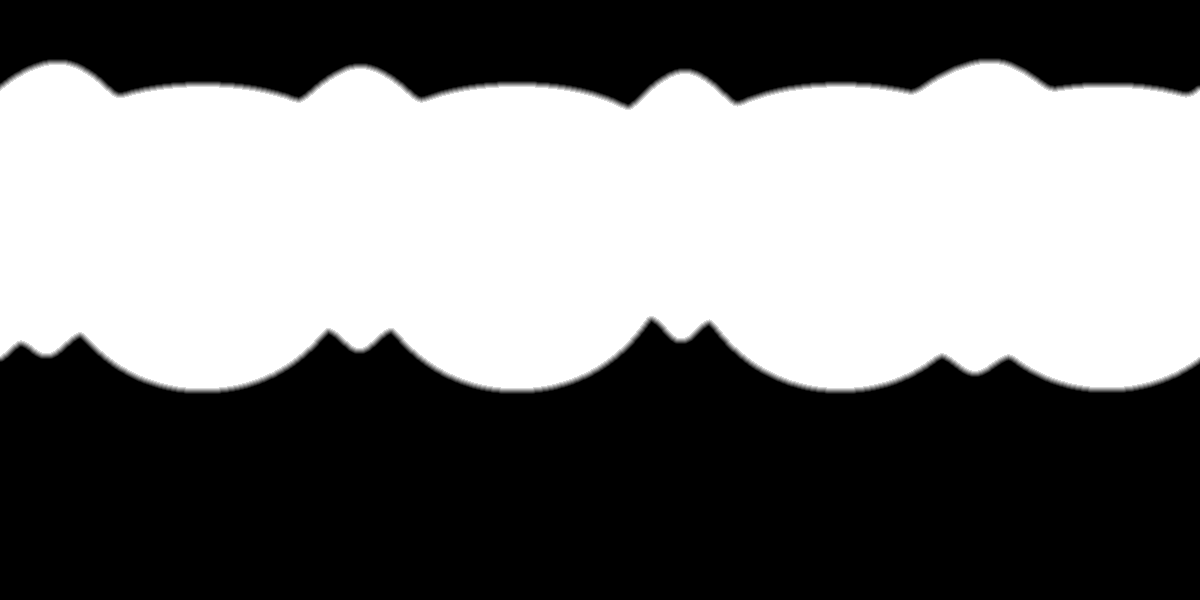
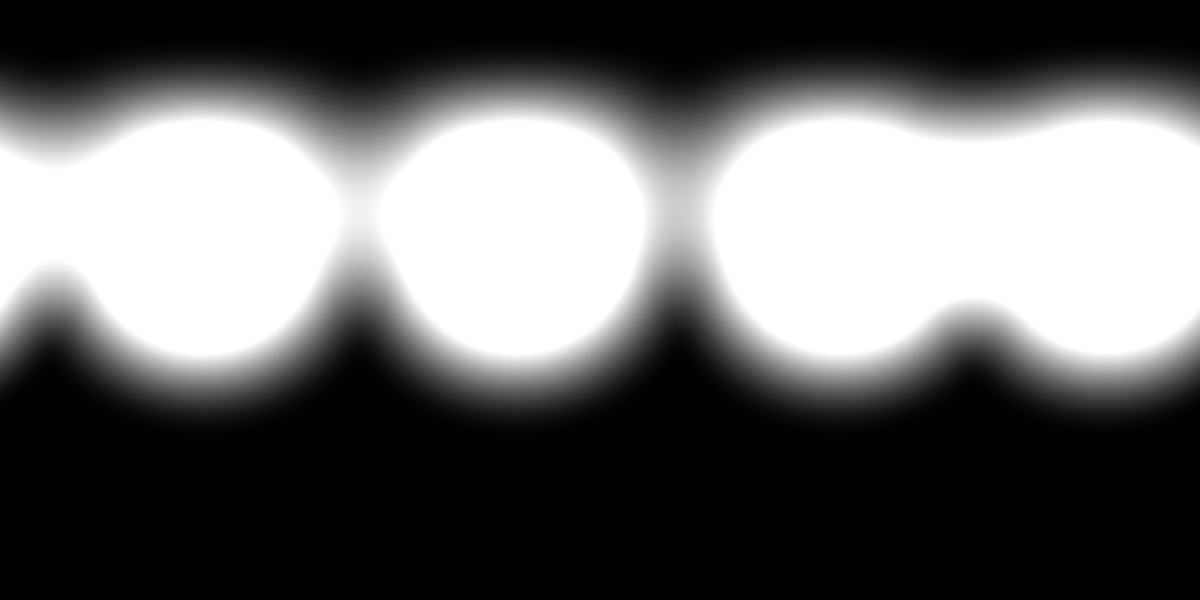
SS-14 W3 part 3: no steps at Hubble's day edges or coverage edge; the W7 disc check takes Mallama's corrections
Each day's weight falls to zero at the angle cut and the fade follows the smoothed weight, after the
first build left arcs and an edge visible in the captures. The whole-disc check now expects Eq. 6
with Mallama's longitude and season terms (his code's tables), at the approved 0.06 mag: drawn
+0.054 mag at 1.2 deg phase and +0.015 at 40 deg.

Claude-Session: https://claude.ai/code/session_01KqHM5bGoD2pjPKzXXoSsMy

Changed region(s): [[0.0, 0.09, 1.0, 0.69]]

diff --git a/tools/capture/moon.ts b/tools/capture/moon.ts
@@ -9,7 +9,7 @@ import { join } from 'node:path';
 import type { PNG } from 'pngjs';
 import type { BodyCheck, BodySetup } from '../../src/capture/viewpoints.ts';
 import { hapke, type HapkeParameters } from '../../src/core/hapke.ts';
-import { mallamaHiltonV } from '../../src/core/marsPhotometry.ts';
+import { mallamaHiltonFullV } from '../../src/core/marsPhotometry.ts';
 import {
   AU_KM,
   displayValue,
@@ -29,6 +29,8 @@ export interface EphemerisFile {
     readonly sunDistanceKm: number;
     readonly earthDirectionJ2000: readonly number[];
     readonly j2000ToBodyFixed: readonly (readonly number[])[];
+    /** Mars's season, degrees (public/data/mars/ephemeris.json). */
+    readonly solarLongitudeLsDeg?: number;
   }[];
 }
 
@@ -67,6 +69,10 @@ export interface MoonPixels {
   readonly sunDistanceKm: number;
   /** Sun-body-camera angle at the body's centre, degrees. */
   readonly phaseAngleDeg: number;
+  /** East longitudes of the points below the camera and the Sun, degrees, and the season, if any. */
+  readonly subObserverLonDeg: number;
+  readonly subSolarLonDeg: number;
+  readonly lsDeg: number | null;
   /** The area the body's outline encloses seen from the camera's direction, km² (a sphere: πR²). */
   readonly projectedAreaKm2: number;
 }
@@ -137,6 +143,12 @@ export function castMoonRays(
     hit: new Uint8Array(n),
     normal: new Float64Array(n * 3),
     solidAngle: new Float64Array(n),
+    subObserverLonDeg: (Math.atan2(fromBody[1], fromBody[0]) * 180) / Math.PI,
+    subSolarLonDeg: (() => {
+      const s = toBody(sun);
+      return (Math.atan2(s[1], s[0]) * 180) / Math.PI;
+    })(),
+    lsDeg: epoch.solarLongitudeLsDeg ?? null,
     phaseAngleDeg: (Math.acos(Math.max(-1, Math.min(1, dot(from, sun)))) * 180) / Math.PI,
     projectedAreaKm2:
       Math.PI *
@@ -356,7 +368,14 @@ export function runMoonCheck(png: PNG, pixels: MoonPixels, check: BodyCheck): Ch
       const measured =
         SUN_V_MAGNITUDE -
         2.5 * Math.log10((pPhi * pixels.projectedAreaKm2) / (Math.PI * AU_KM * AU_KM));
-      const expected = mallamaHiltonV(pixels.phaseAngleDeg);
+      if (pixels.lsDeg === null) throw new Error(`${check.name}: the epoch has no season (Ls)`);
+      // Eq. 6 with Mallama's longitude and season corrections (core/marsPhotometry.ts).
+      const expected = mallamaHiltonFullV(
+        pixels.phaseAngleDeg,
+        pixels.subObserverLonDeg,
+        pixels.subSolarLonDeg,
+        pixels.lsDeg,
+      );
       const off = measured - expected;
       const pass = omega > 0 && Math.abs(off) <= check.toleranceMag;
       return {

diff --git a/src/capture/viewpoints.ts b/src/capture/viewpoints.ts
@@ -99,7 +99,8 @@ export type BodyCheck =
   | {
       /**
        * The whole disc's brightness as a V magnitude at 1 AU, against Mars's measured one,
-       * Mallama & Hilton (2018) Eq. 6 (core/marsPhotometry.ts), at the capture's phase angle.
+       * Mallama & Hilton (2018) Eq. 6 with its longitude and season terms
+       * (core/marsPhotometry.ts), at the capture's geometry.
        * The harness sums the drawn colour's luminance over the disc's solid angle.
        */
       readonly kind: 'disc-magnitude';
@@ -417,9 +418,9 @@ const MARS_DISC: BodySetup = {
 };
 
 /**
- * Mars's whole-disc brightness against its measured phase curve, within the owner's 0.06 mag
- * (2026-10-03, the W7 spec): the largest longitude effect Mallama & Hilton give, as their
- * longitude and season terms are not modelled.
+ * Mars's whole-disc brightness against its measured one, within the owner's 0.06 mag (2026-10-03,
+ * the W7 spec): Eq. 6 with Mallama's longitude and season corrections, read from his published
+ * code (core/marsPhotometry.ts) after the spec was approved.
  */
 const MARS_DISC_MAGNITUDE: BodyCheck = {
   kind: 'disc-magnitude',

diff --git a/pipeline/mars_hst.py b/pipeline/mars_hst.py
@@ -21,12 +21,14 @@ Method:
    to the map's geometry (e = 0, g = i = 30 deg: the map is I/F / cos i seen near nadir, Ody et al.
    2012) by the law in hst_sources.json: A = I/F x R(30, 0, 30) / (cos 30 x R(i, e, g)), with g the
    cube's own phase angle from its header's sub-Earth and sub-solar points.
-2. The four days are averaged, each pixel weighted by mu mu0, and resampled onto the map's 0.3 deg
+2. The four days are averaged, each pixel weighted by (mu - cos 60)(mu0 - cos 60), and resampled onto the map's 0.3 deg
    pixel centres.
 3. The ratio of that to the map at 0.3 deg is smoothed by a Gaussian of SIGMA_DEG (normalised
    convolution with the same weights, wrapping in longitude).
-4. Where Hubble did not see, the factor fades to the ratio's median over the covered planet within
-   FADE_DEG of the coverage edge: there the map keeps its own contrast, and albedo-hst.png says so.
+4. Where Hubble did not see, the factor fades to the ratio's median over the covered planet as the
+   smoothed weight falls away, over the same Gaussian: there the map keeps its own contrast, and
+   albedo-hst.png says so. Each day's weight falls to zero at the angle cut, so no day's edge leaves
+   a step (the first build, cut sharply, left arcs where a day stopped).
 """
 
 from __future__ import annotations
@@ -38,7 +40,7 @@ from pathlib import Path
 
 import numpy as np
 from PIL import Image
-from scipy.ndimage import distance_transform_edt, gaussian_filter, map_coordinates
+from scipy.ndimage import gaussian_filter, map_coordinates
 
 from download import fetch
 from hapke import hapke
@@ -49,14 +51,14 @@ WIDTH, HEIGHT = 1200, 600
 STEP_DEG = 0.3
 # The filter nearest the map's 530 nm band and Johnson V: F547M, 546.78 nm, 48 nm wide.
 WAVELENGTH_NM = 546.78
-# Limb and terminator are left out: there the law's normalisation is least certain.
+# Limb and terminator are left out: there the law's normalisation is least certain. Weights fall
+# to zero at this angle.
 MAX_ANGLE_DEG = 60.0
-# The scale above which Hubble sets the level (owner-approved spec: 2 deg, part 2's blend scale),
-# and the width over which the factor fades to its median outside Hubble's coverage.
+# The scale above which Hubble sets the level (owner-approved spec: 2 deg, part 2's blend scale).
+# The fade to the median outside Hubble's coverage runs over the same Gaussian.
 SIGMA_DEG = 2.0
-FADE_DEG = 2.0
-# A 0.3 deg pixel counts as covered when the smoothed weight there is at least this fraction of
-# the weight of fully covered ground.
+# Hubble sets the level fully where the smoothed weight is at least this fraction of the weight of
+# fully covered ground, and fades out below it.
 COVERED = 0.5
 
 
@@ -117,7 +119,11 @@ def normalised_day(day: str) -> tuple[np.ndarray, np.ndarray, dict]:
         "pixelsUsed": int(ok.sum()),
         "medianAtMapGeometry": round(float(np.median(a[ok])), 4),
     }
-    return a, np.where(ok, mu * mu0, 0.0), record
+    # Each day's weight falls to zero at the angle cut, so no day's edge leaves a step where it
+    # stops contributing: (mu - cos cut)(mu0 - cos cut), scaled to 1 at the centre of the disc.
+    cut = math.cos(math.radians(MAX_ANGLE_DEG))
+    weight = np.where(ok, (mu - cut) * (mu0 - cut) / (1 - cut) ** 2, 0.0)
+    return a, np.maximum(weight, 0.0), record
 
 
 def to_map_centres(field: np.ndarray) -> np.ndarray:
@@ -154,13 +160,14 @@ def factor_field(
     num = smooth(ratio * hst_w, sigma_px)
     den = smooth(hst_w, sigma_px)
     smoothed = num / np.maximum(den, 1e-12)
-    # Full weight: the smoothed weight over ground every day saw well, its 90th percentile.
+    # Full weight: the smoothed weight over ground every day saw well, its 90th percentile. The
+    # factor leans on Hubble as far as its smoothed weight reaches that, and fades to the median as
+    # the weight falls away: continuous, over the same SIGMA_DEG Gaussian.
     full = float(np.percentile(den[seen], 90))
-    covered = den >= COVERED * full
+    fade = np.clip(den / (COVERED * full), 0, 1)
+    covered = fade >= 1
     median = float(np.median((hst / map_03)[seen]))
-    distance = distance_transform_edt(~covered) * STEP_DEG
-    fade = np.clip(1 - distance / FADE_DEG, 0, 1)
-    factor = median + fade * (np.where(covered | (fade > 0), smoothed, median) - median)
+    factor = median + fade * (smoothed - median)
 
     lat = 90 - (np.arange(HEIGHT) + 0.5) * STEP_DEG
     bands = {}
@@ -174,7 +181,7 @@ def factor_field(
         "maxAngleDeg": MAX_ANGLE_DEG,
         "law": SOURCES["law"],
         "sigmaDeg": SIGMA_DEG,
-        "fadeDeg": FADE_DEG,
+        "fade": "to the median as the smoothed weight falls below COVERED of full, over the same Gaussian",
         "coveredFraction": round(float(covered.mean()), 4),
         "coveredFractionByLatitude": bands,
         "medianRatioHubbleOverMap": round(median, 4),

diff --git a/docs/stories/SS-14.md b/docs/stories/SS-14.md
@@ -162,7 +162,7 @@ Fixture: `test/fixtures/horizons-mars.json`, with the requests recorded. Test: `
 
 **Not yet:** the absolute scale is OMEGA's 1.08 µm Lambert albedo carried to 530 nm by HRSC's ratios. Checking it against Mars's published brightness needs Mars drawn with its photometry (W7).
 
-## W3 · True albedo, part 3: the large-scale visible brightness from Hubble (spec, for the owner's approval)
+## W3 · True albedo, part 3: the large-scale visible brightness from Hubble
 
 **Why** (found by W7, 2026-10-03):
 - **The symptom:** Mars drawn from the W3 map fails W7's whole-disc check by 0.06–0.09 mag.
@@ -212,6 +212,35 @@ Fixture: `test/fixtures/horizons-mars.json`, with the requests recorded. Test: `
 - **The light curve:** Mars's brightness against longitude, from the corrected map with W7's law, matches Mallama's L1 to an RMS of at most 0.035 mag, the RMS of the longitude term his paper gives. Prototype: 0.026.
 - **Against HST itself:** within HST's coverage, the corrected map's 2° means match HST's to 3% median absolute difference.
 - **Unchanged:** the part 1 and part 2 checks (the Gazetteer features, the mirrored control, the fill). Part 2's check against OMEGA's large scale applies to the near-infrared band, which this does not change at large scale beyond the common factor; it is re-measured and reported.
+
+### Built (2026-10-03)
+
+**Code:**
+- **`pipeline/mars_hst.py`:** reads Hubble's four 1999 cubes, pinned in `pipeline/hst_sources.json`. Run by `npm run pipeline:mars`, which CI re-runs and diffs.
+- **`pipeline/hapke.py`:** a numpy port of `core/hapke.ts`. `pipeline/test_hapke.py` checks it against values the TypeScript writes (`test/fixtures/hapke-values.json`), to 1e-9.
+- **The law the cubes are normalised with:** W7's first fit, pinned in `hst_sources.json`, so the map and the fit that follows it are not circular. The refit on the corrected map moves B_S0 from 1.27 to 1.13; the light curve and the checks below are measured after the refit.
+
+**Two corrections after the first build:** it left visible arcs where a day's disc stopped contributing, and a hard edge where the coverage ended (`ss14` captures, before).
+- **Weights:** each day's weight now falls to zero at the 60° angle cut: (μ − cos 60°)(μ0 − cos 60°).
+- **The fade:** the fade to the median now follows the smoothed weight over the same 2° Gaussian, not a 2° band beyond a hard coverage line.
+
+**Result:**
+
+| | Before (part 2) | After |
+| --- | --- | --- |
+| Median reflectance at 530 nm | 0.183 | 0.136 |
+| Contrast (spread over mean, within Hubble's coverage) | 0.25 | Hubble's 0.17 |
+| Light-curve range against longitude | 0.267 mag | 0.156 mag (L1: 0.110) |
+| Light curve, RMS against L1 | 0.062 mag | **0.026 mag** (limit 0.035) |
+| Hubble's 2° means, median absolute difference | — | **2.3%** (limit 3%; 9,775 cells) |
+
+- **Calibration factors** (W7, `public/data/mars/photometry.json`): now 0.91, 0.96, 0.88 and 1.14 for 440, 530, 750 and 970 nm, against 0.67–0.84 before. Hubble's absolute I/F and Mallama's measured albedos agree to within about 10%.
+- **Coverage** (`public/data/mars/albedo-hst.png`): Hubble sets the level fully over 27% of the planet, most of 30°S–30°N and of 30–60°N, and fades out over about 5° beyond. South of about 35°S, and at the north polar cap, the map keeps its own contrast, scaled by the median factor 0.737.
+
+**The Gazetteer check's reference corrected** (owner, 2026-10-03, "Dark below bright, < 1"):
+- **Why:** the 0.6 dark-to-bright ratio was set for OMEGA's near-infrared contrast. Hubble's own 547 nm gives 0.62 for the same boxes.
+- **The map:** 0.69. Hellas is only partly inside Hubble's coverage.
+- **The mirrored map:** 2.09.
 
 ## W4 · Terrain for the website
 
